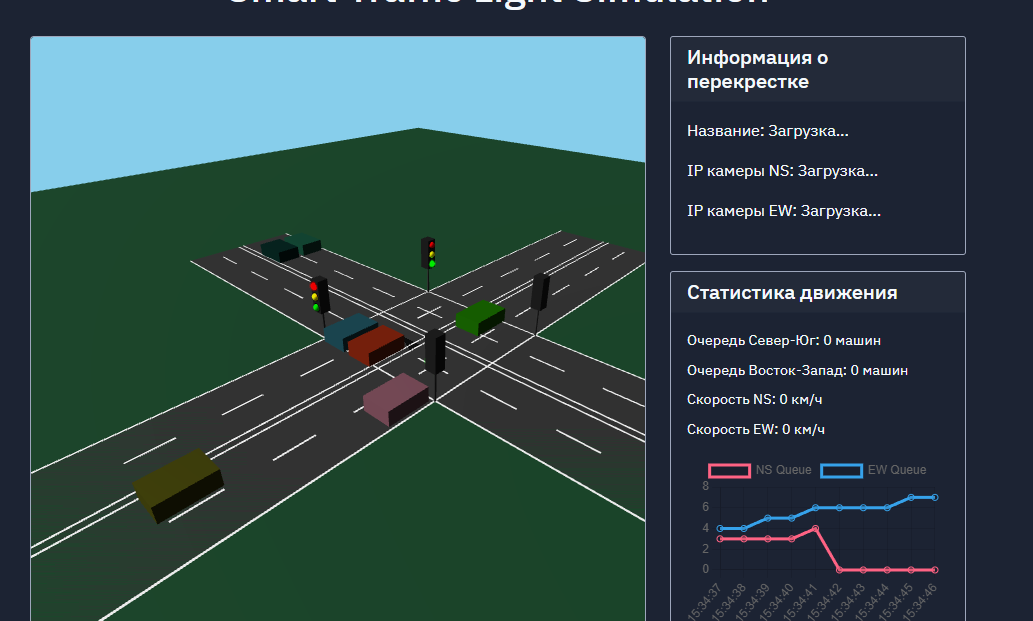
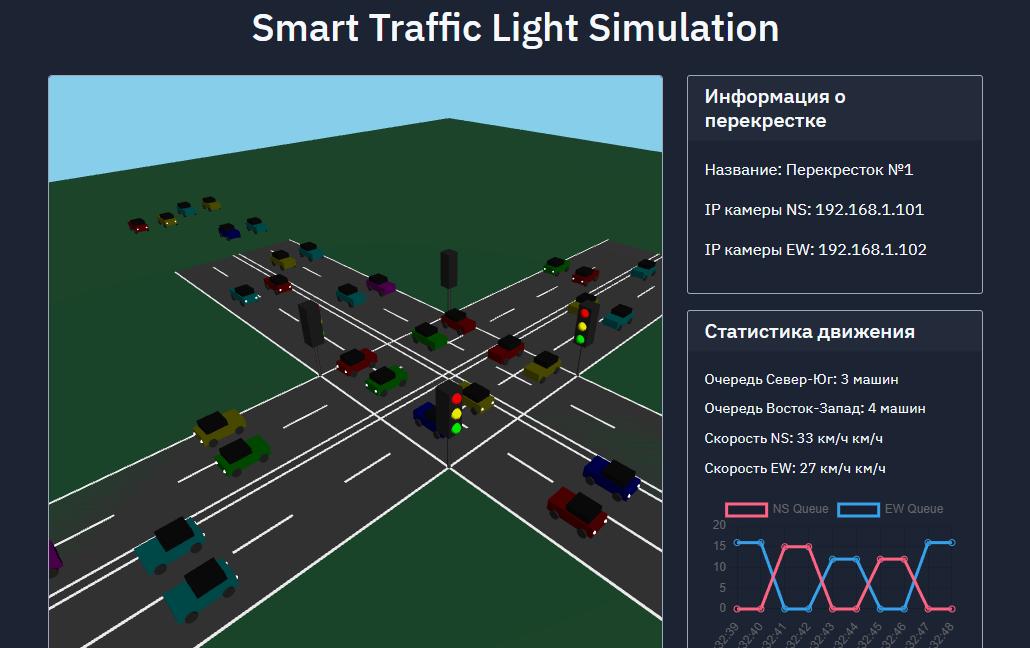
Agent query: Проверьте работу системы после обновлений: 1) Правильность работы светофоров, 2) Появление машин группами, 3) Яркость сигналов светофора

diff --git a/static/js/trafficControl.js b/static/js/trafficControl.js
@@ -1,16 +1,45 @@
 class QLearningAgent {
     constructor() {
-        this.qTable = {};
-        this.learningRate = 0.1;
-        this.discountFactor = 0.9;
-        this.epsilon = 0.1;
-        
-        // Временные интервалы для светофоров (в миллисекундах)
-        this.minGreenTime = 20000;
-        this.maxGreenTime = 160000;
-        this.timeStep = 20000; // Шаг изменения времени
+        this.minGreenTime = 20000; // 20 секунд
+        this.maxGreenTime = 160000; // 160 секунд
+        this.yellowTime = 5000; // 5 секунд
     }
     
+    calculateGreenTime(trafficData) {
+        const ns_data = trafficData.ns;
+        const ew_data = trafficData.ew;
+        
+        // Расчет загруженности для каждого направления
+        const ns_score = (ns_data.waiting * 2) + (1 / (ns_data.avgSpeed + 0.1));
+        const ew_score = (ew_data.waiting * 2) + (1 / (ew_data.avgSpeed + 0.1));
+        
+        // Расчет пропорционального времени
+        const total_score = ns_score + ew_score;
+        if (total_score === 0) {
+            return { nsTime: this.minGreenTime, ewTime: this.minGreenTime };
+        }
+        
+        const variable_time = this.maxGreenTime - this.minGreenTime;
+        
+        const ns_green_time = Math.max(
+            this.minGreenTime,
+            Math.min(
+                this.maxGreenTime,
+                this.minGreenTime + (variable_time * (ns_score / total_score))
+            )
+        );
+        
+        const ew_green_time = Math.max(
+            this.minGreenTime,
+            Math.min(
+                this.maxGreenTime,
+                this.minGreenTime + (variable_time * (ew_score / total_score))
+            )
+        );
+        
+        return { nsTime: ns_green_time, ewTime: ew_green_time };
+    }
+
     getState(trafficData) {
         // Дискретизация состояния
         const nsWaiting = Math.min(Math.floor(trafficData.ns.waiting / 5), 5);
@@ -113,41 +142,45 @@ class TrafficController {
         };
         
         setInterval(() => {
+            // Проверяем перекресток на наличие машин
             if (!this.checkIntersectionClear()) {
-                // Если перекресток не пустой, добавляем время
-                this.currentPhase.timeLeft = Math.max(this.currentPhase.timeLeft, 2000);
+                // Если перекресток не пустой, не меняем фазу
                 return;
             }
             
-            // Остальная логика только если перекресток пуст
             const trafficData = this.simulation.getTrafficData();
-            const times = this.rlAgent.calculateGreenTime(trafficData);
             
+            // Уменьшаем оставшееся время
             this.currentPhase.timeLeft -= 100;
             
             if (this.currentPhase.timeLeft <= 0) {
+                const times = this.rlAgent.calculateGreenTime(trafficData);
+                
                 if (this.currentPhase.state === 'green') {
-                    // Переход на желтый
+                    // Плавный переход на желтый
                     this.currentPhase.state = 'yellow';
-                    this.currentPhase.timeLeft = 5000;
-                    this.animateTransition(this.currentPhase.direction, 'green', 'yellow', 2000);
+                    this.currentPhase.timeLeft = 5000; // 5 секунд на желтый
+                    this.animateTransition(this.currentPhase.direction, 'green', 'yellow', 3000);
                 } else if (this.currentPhase.state === 'yellow') {
-                    // Переход на красный и смена направления
+                    // Плавный переход на красный
                     this.currentPhase.state = 'red';
-                    this.animateTransition(this.currentPhase.direction, 'yellow', 'red', 2000);
+                    this.animateTransition(this.currentPhase.direction, 'yellow', 'red', 3000);
                     
-                    // Меняем направление
-                    this.currentPhase.direction = (this.currentPhase.direction === 'ns') ? 'ew' : 'ns';
-                    
-                    // Устанавливаем время следующей фазы
-                    this.currentPhase.timeLeft = this.currentPhase.direction === 'ns' ? 
-                        times.nsTime : times.ewTime;
-                    
-                    // Устанавливаем зеленый для нового направления через задержку
+                    // Ждем окончания анимации перехода на красный
                     setTimeout(() => {
-                        this.animateTransition(this.currentPhase.direction, 'red', 'green', 2000);
-                        this.currentPhase.state = 'green';
-                    }, 2000);
+                        // Меняем направление
+                        this.currentPhase.direction = (this.currentPhase.direction === 'ns') ? 'ew' : 'ns';
+                        
+                        // Устанавливаем время следующей фазы
+                        this.currentPhase.timeLeft = this.currentPhase.direction === 'ns' ? 
+                            times.nsTime : times.ewTime;
+                        
+                        // Плавный переход на зеленый для нового направления
+                        setTimeout(() => {
+                            this.animateTransition(this.currentPhase.direction, 'red', 'green', 3000);
+                            this.currentPhase.state = 'green';
+                        }, 2000);
+                    }, 3000);
                 }
             }
             
@@ -175,13 +208,21 @@ class TrafficController {
             const lightMesh = this.simulation[direction + 'Light'];
             if (!lightMesh || !lightMesh.userData.lights) return;
             
-            const state = this.simulation.trafficLights[direction].state;
-            Object.entries(lightMesh.userData.lights).forEach(([lightState, elements]) => {
-                const isActive = lightState === state;
-                elements.light.material.emissiveIntensity = isActive ? 1 : 0;
-                elements.glow.intensity = isActive ? 2 : 0;
-                elements.glowSphere.material.opacity = isActive ? 0.3 : 0;
+            // Сначала выключаем все сигналы
+            Object.values(lightMesh.userData.lights).forEach(elements => {
+                elements.light.material.emissiveIntensity = 0;
+                elements.glow.intensity = 0;
+                elements.glowSphere.material.opacity = 0;
             });
+            
+            // Затем включаем активный сигнал
+            const state = this.simulation.trafficLights[direction].state;
+            const activeElements = lightMesh.userData.lights[state];
+            if (activeElements) {
+                activeElements.light.material.emissiveIntensity = 1;
+                activeElements.glow.intensity = 5; // Увеличиваем яркость свечения
+                activeElements.glowSphere.material.opacity = 0.5;
+            }
         });
     }
 

diff --git a/static/js/simulation.js b/static/js/simulation.js
@@ -219,19 +219,31 @@ class TrafficSimulation {
     }
 
     setupSpawnInterval() {
+        let lastSpawnTime = Date.now();
+        const MIN_SPAWN_INTERVAL = 4000; // Минимальный интервал между машинами
+        
         setInterval(() => {
             if (!this.running) return;
-            if (this.vehicles.length >= 10) return; // Ограничение общего количества машин
+            if (this.vehicles.length >= 10) return;
             
+            const currentTime = Date.now();
+            if (currentTime - lastSpawnTime < MIN_SPAWN_INTERVAL) return;
+            
+            // 70% шанс спавна одной машины, 30% шанс спавна двух машин
+            const spawnCount = Math.random() < 0.7 ? 1 : 2;
             const directions = ['north', 'south', 'east', 'west'];
             const direction = directions[Math.floor(Math.random() * directions.length)];
             
-            // Добавляем вероятность поворота
-            const willTurn = Math.random() < 0.3; // 30% шанс поворота
-            const turnDirection = Math.random() < 0.5 ? 'left' : 'right';
+            for (let i = 0; i < spawnCount; i++) {
+                setTimeout(() => {
+                    const willTurn = Math.random() < 0.3;
+                    const turnDirection = Math.random() < 0.5 ? 'left' : 'right';
+                    this.spawnVehicle(direction, willTurn ? turnDirection : null);
+                }, i * 2000); // 2 секунды между машинами в группе
+            }
             
-            this.spawnVehicle(direction, willTurn ? turnDirection : null);
-        }, 4000); // Увеличиваем интервал до 4 секунд
+            lastSpawnTime = currentTime;
+        }, 1000);
     }
 
     animate() {
